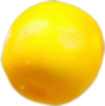
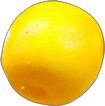
Changed speed and positions of falling lemons

diff --git a/public/js/app.js b/public/js/app.js
@@ -158,60 +158,60 @@ $(document).ready(function () {
     triggerHook: 1,
     duration: '500%'
   })
-    .setTween(TweenMax.from('.bcg-home', 1, { y: "-120%", ease: Power0.easeNone }))
+    .setTween(TweenMax.from('.bcg-home-normal-1', 1, { y: "-120%", ease: Power0.easeNone }))
     .addTo(controller);
 
   var lemonHome = new ScrollMagic.Scene({
     triggerElement: '#lemonHome-trigger',
     triggerHook: 0.9
   })
-    .setClassToggle('.bcg-home', 'bcg-home-out')
+    .setClassToggle('.bcg-home-normal-1', 'bcg-home-out')
     .addTo(controller);
 
   var slideParallaxSceneHome2 = new ScrollMagic.Scene({
     triggerElement: '.bcg-parallax-home',
     triggerHook: 1,
-    duration: '500%'
+    duration: '505%'
   })
-    .setTween(TweenMax.from('.bcg-home2', 1, { y: "-125%", ease: Power0.easeNone }))
+    .setTween(TweenMax.from('.bcg-home-normal-2', 1, { y: "-125%", ease: Power0.easeNone }))
     .addTo(controller);
 
   var lemonHome2 = new ScrollMagic.Scene({
     triggerElement: '#lemonHome-trigger',
     triggerHook: 0.9
   })
-    .setClassToggle('.bcg-home2', 'bcg-home-out')
+    .setClassToggle('.bcg-home-normal-2', 'bcg-home-out')
     .addTo(controller);
 
   var slideParallaxSceneHome3 = new ScrollMagic.Scene({
     triggerElement: '.bcg-parallax-home',
     triggerHook: 1,
-    duration: '500%'
+    duration: '512%'
   })
-    .setTween(TweenMax.from('.bcg-home3', 1, { y: "-116.5%", ease: Power0.easeNone }))
+    .setTween(TweenMax.from('.bcg-home-normal-3', 1, { y: "-130%", ease: Power0.easeNone }))
     .addTo(controller);
 
   var lemonHome3 = new ScrollMagic.Scene({
     triggerElement: '#lemonHome-trigger',
     triggerHook: 0.9
   })
-    .setClassToggle('.bcg-home3', 'bcg-home-out')
+    .setClassToggle('.bcg-home-normal-3', 'bcg-home-out')
     .addTo(controller);
 
-  var slideParallaxSceneHome4 = new ScrollMagic.Scene({
-    triggerElement: '.bcg-parallax-home',
-    triggerHook: 1,
-    duration: '500%'
-  })
-    .setTween(TweenMax.from('.bcg-home4', 1, { y: "-122.5%", ease: Power0.easeNone }))
-    .addTo(controller);
-
-  var lemonHome4 = new ScrollMagic.Scene({
-    triggerElement: '#lemonHome-trigger',
-    triggerHook: 0.9
-  })
-    .setClassToggle('.bcg-home4', 'bcg-home-out')
-    .addTo(controller);
+    var slideParallaxSceneHome4 = new ScrollMagic.Scene({
+      triggerElement: '.bcg-parallax-home',
+      triggerHook: 1,
+      duration: '465%'
+    })
+      .setTween(TweenMax.from('.bcg-home-normal-4', 1, { y: "-115%", ease: Power0.easeNone }))
+      .addTo(controller);
+  
+    var lemonHome4 = new ScrollMagic.Scene({
+      triggerElement: '#lemonHome-trigger',
+      triggerHook: 0.9
+    })
+      .setClassToggle('.bcg-home-normal-4', 'bcg-home-out')
+      .addTo(controller);
 
 });
 

diff --git a/public/css/app.css b/public/css/app.css
@@ -77,9 +77,24 @@ body {
 }
 
 .bcg-home-basket {
-  background-image: url("../images/home-basket.png");
+  background-image: url("../images/lemon-basket.png");
   background-position: 30% 0;
+  background-size: 50%;
   background-repeat: no-repeat;
+  position: absolute;
+  width: 100%;
+  height: 100%;
+  top: 0;
+  z-index: 1;
+  opacity: 1;
+  margin-top: -50px;
+}
+
+.bcg-home-normal-1 {
+  background-image: url("../images/lemon2.png");
+  background-position: 25% 100%;
+  background-repeat: no-repeat;
+  background-size: 7%;
   position: absolute;
   width: 100%;
   height: 100%;
@@ -88,60 +103,48 @@ body {
   opacity: 1;
 }
 
-.bcg-home {
-  background-image: url("../images/lemon1.png"), url("../images/lemon1.png"), url("../images/lemon1.png"), url("../images/lemon1.png");
-  background-position: 25% 100%, 40% 100%, 55% 100%, 32.5% 100%;
+.bcg-home-normal-2 {
+  background-image: url("../images/lemon2.png");
+  background-position: 35% 100%;
   background-repeat: no-repeat;
-  background-size: 6.5%;
+  background-size: 7%;
   position: absolute;
   width: 100%;
   height: 100%;
   top: 0;
   z-index: 1;
   opacity: 1;
+  margin-top: 5px;
 }
 
-.bcg-home2 {
-  background-image: url("../images/lemon1.png"), url("../images/lemon1.png");
-  background-position: 50% 100%, 37.5% 100%;
-  background-repeat: no-repeat;
-  background-size: 6.5%;
-  position: absolute;
-  width: 100%;
-  height: 100%;
-  top: 0;
-  z-index: 1;
-  opacity: 1;
-  margin-top: 50px;
-}
-
-.bcg-home3 {
-  background-image: url("../images/lemon1.png"), url("../images/lemon1.png"), url("../images/lemon1.png");
-  background-position: 30% 100%, 37.5% 100%, 52.5% 100%;
-  background-repeat: no-repeat;
-  background-size: 6.5%;
-  position: absolute;
-  width: 100%;
-  height: 100%;
-  top: 0;
-  z-index: 1;
-  opacity: 1;
-  margin-top: -40px;
-}
-
-.bcg-home4 {
-  background-image: url("../images/lemon1.png");
+.bcg-home-normal-3 {
+  background-image: url("../images/lemon2.png");
   background-position: 45% 100%;
   background-repeat: no-repeat;
-  background-size: 6.5%;
+  background-size: 7%;
   position: absolute;
   width: 100%;
   height: 100%;
   top: 0;
   z-index: 1;
   opacity: 1;
-  margin-top: 40px;
+  margin-top: 15px;
 }
+
+.bcg-home-normal-4 {
+  background-image: url("../images/lemon2.png");
+  background-position: 55% 100%;
+  background-repeat: no-repeat;
+  background-size: 7%;
+  position: absolute;
+  width: 100%;
+  height: 100%;
+  top: 0;
+  z-index: 1;
+  opacity: 1;
+  margin-top: -160px;
+}
+
 
 
 .contentWrapper-home {
